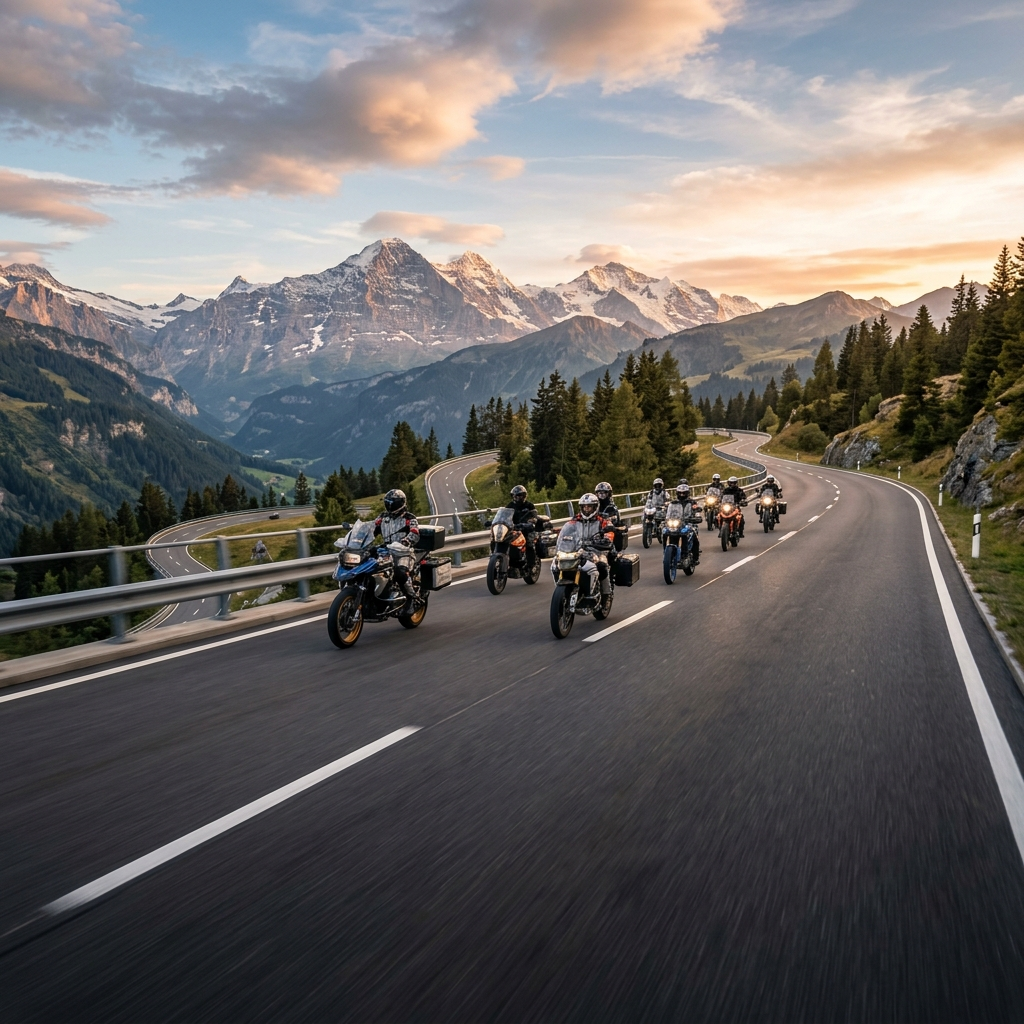
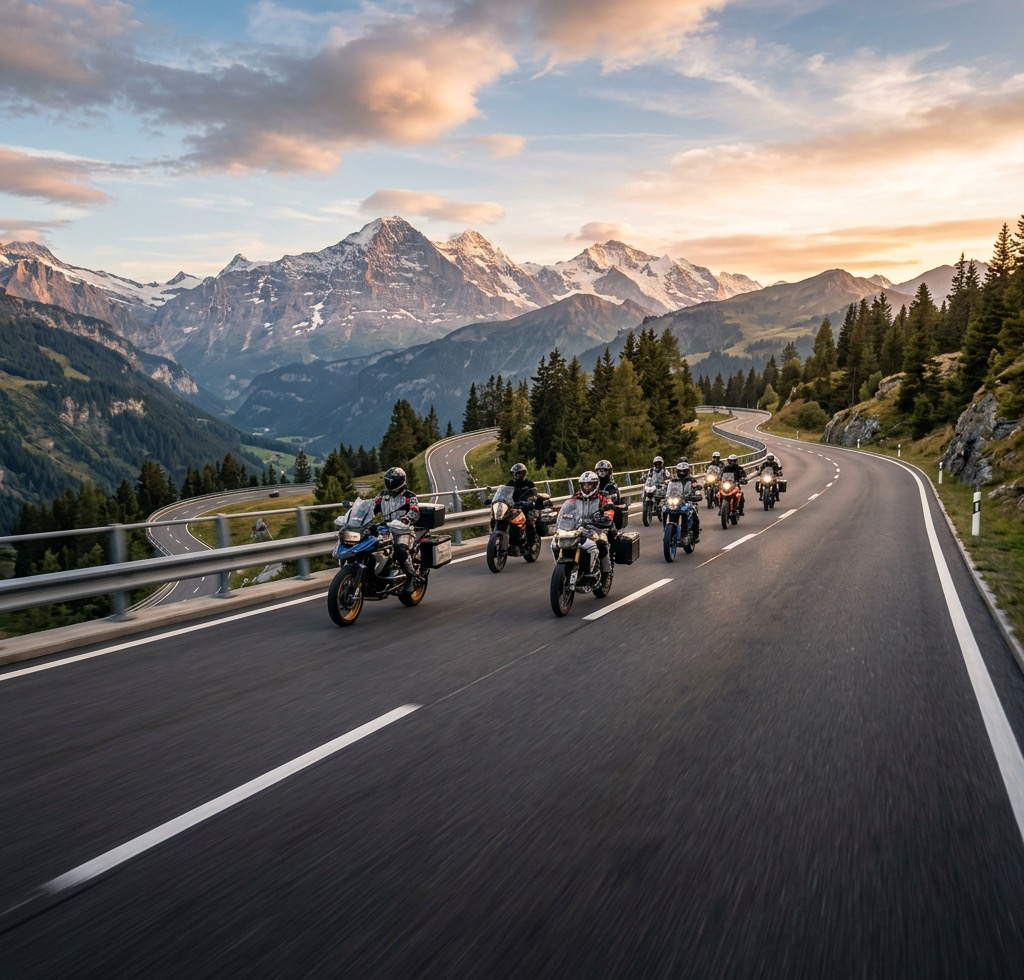
Recortar bordes superiores del archivo de imagen y romper cache con query string

diff --git a/client/src/pages/Home.jsx b/client/src/pages/Home.jsx
@@ -14,7 +14,7 @@ const Home = () => {
       {/* HERO SECTION - UNCROPPED FULL NATURAL IMAGE */}
       <section className="hero full-bleed">
         <div className="hero-img-wrapper">
-          <img src="/assets/Home.png" alt="MOTO X CULT Portada" className="hero-full-img" />
+          <img src="/assets/Home.png?v=20260729_final" alt="MOTO X CULT Portada" className="hero-full-img" />
           <div className="hero-overlay"></div>
         </div>
         
